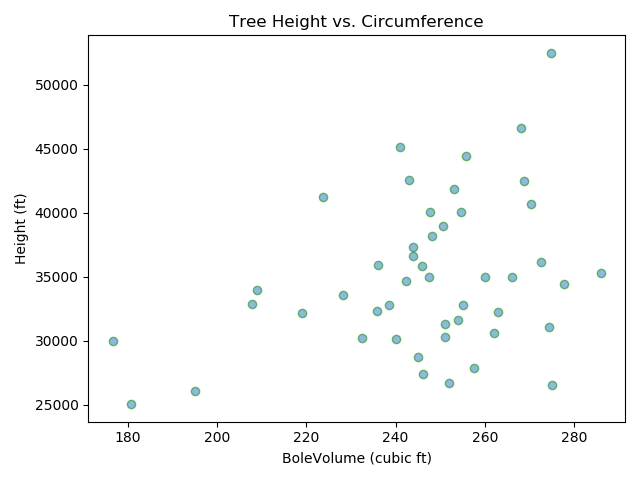
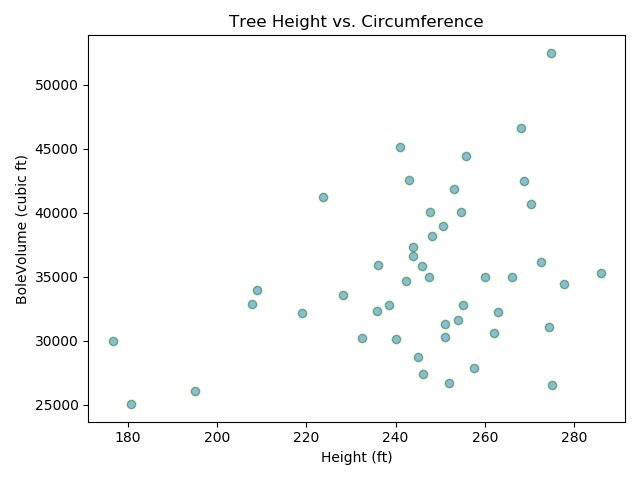
Fixed Tree Scatter Plots

Changed region(s): [[0.0, 0.375, 0.0625, 0.625], [0.4375, 0.9375, 0.6875, 0.9688]]

diff --git a/Scatter Plots/tallest_trees.py b/Scatter Plots/tallest_trees.py
@@ -47,8 +47,8 @@ for attribute in [('Circumference', 'ft'), ('Diameter', 'ft'), ('BoleVolume', 'c
     plt.scatter(df['Height'], df[attribute[0]], cmap='plasma', edgecolor='green',
                 linewidth=1, alpha=0.5)
     ax.set_title('Tree Height vs. Circumference')
-    ax.set_xlabel(f'{attribute[0]} ({attribute[1]})')
-    ax.set_ylabel('Height (ft)')
+    ax.set_ylabel(f'{attribute[0]} ({attribute[1]})')
+    ax.set_xlabel('Height (ft)')
     pyplot.locator_params(axis='y', nbins=10)
     pyplot.locator_params(axis='x', nbins=10)
 
